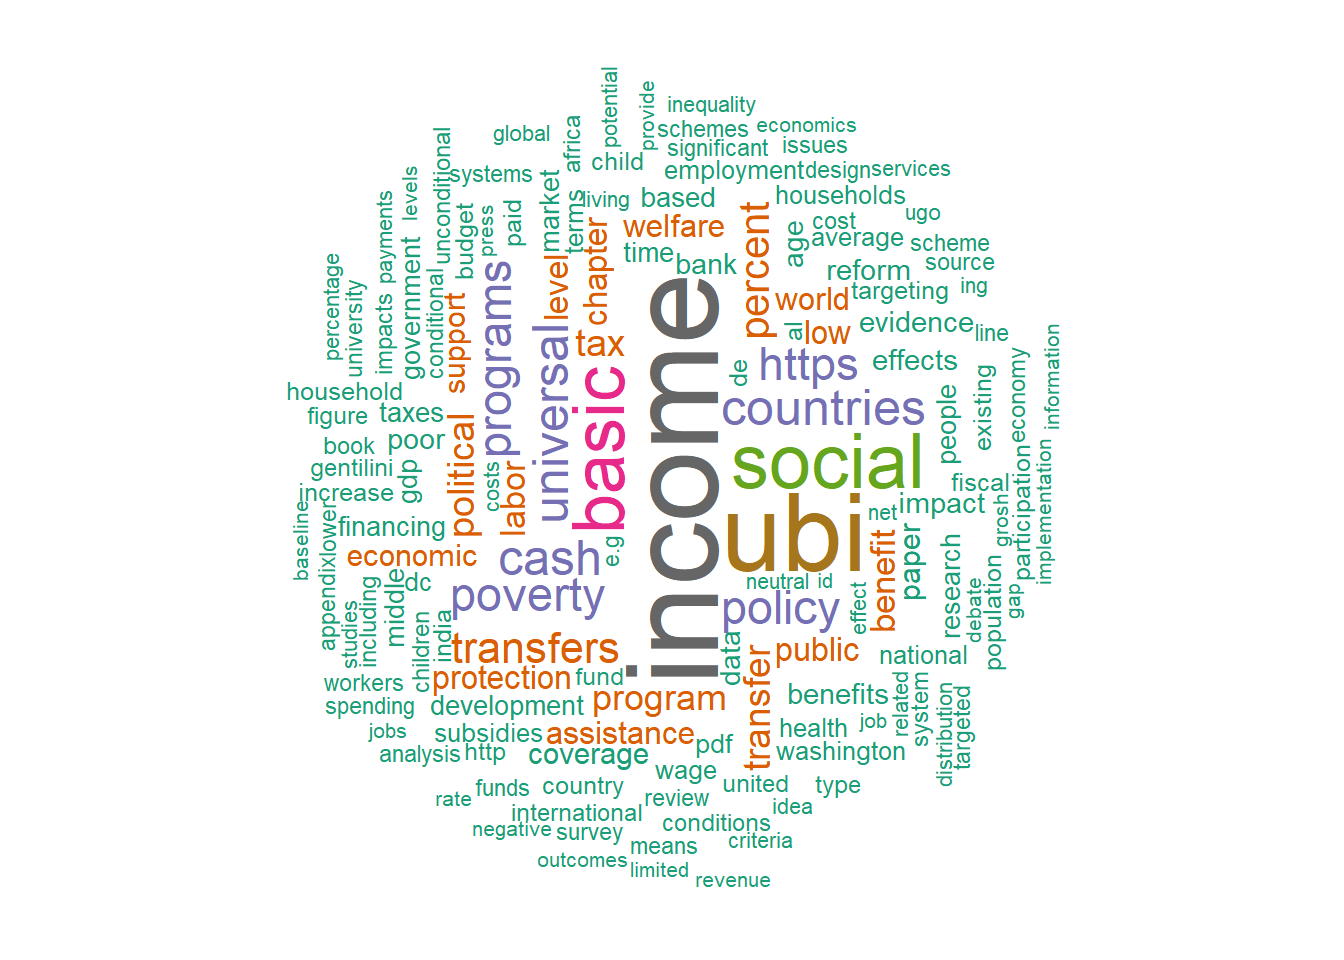
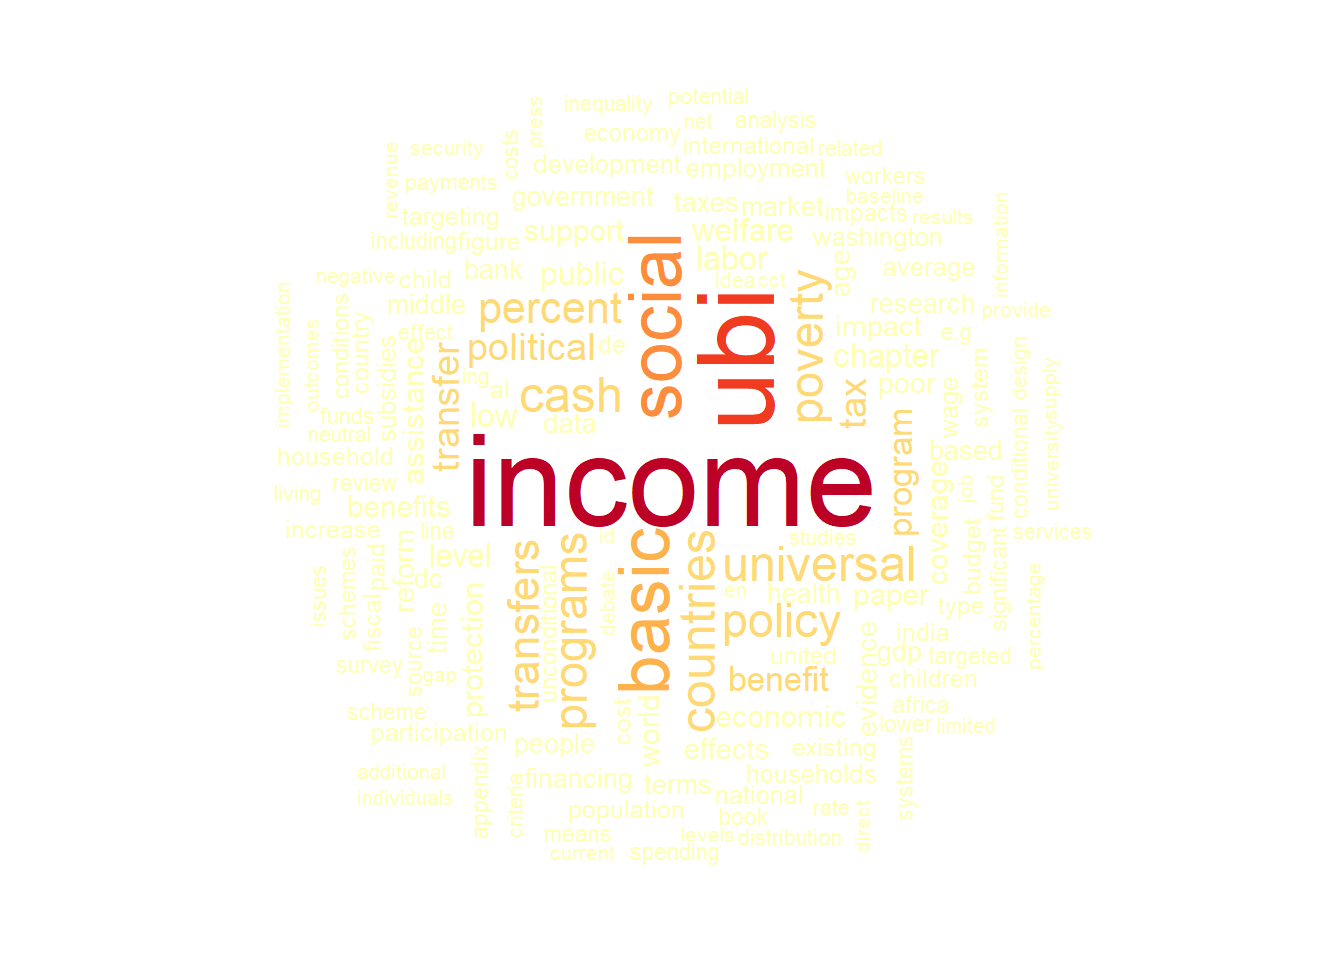
updated post pdf

Changed region(s): [[0.1875, 0.0625, 0.8125, 0.9375]]

diff --git a/blog/pdf-to-text/index.html b/blog/pdf-to-text/index.html
@@ -1138,7 +1138,7 @@ div.main .content .markdown pre, div.main .content .markdown pre code {
                         
                     
                     
-                    <div class="reading-time middot">3 minute read</div>
+                    <div class="reading-time middot">5 minute read</div>
                     
                     
                       <div class="tags">
@@ -1194,13 +1194,8 @@ meu_report &lt;- tibble(
   ungroup() %&gt;% 
   select(page, line, text)
 
-#el guardo com a csv
-write_csv(meu_report, &quot;meu_report.csv&quot;)
-
-
-#el llegeixo
-library(tidyverse)
-meu_report &lt;- read_csv(&quot;meu_report.csv&quot;)</code></pre>
+#les 25 primeres pagines son palla introductoria, presentacions, index, etc. Les suprimeixo
+meu_report &lt;- meu_report %&gt;% filter(page %in% (26:337))</code></pre>
 <p>Un cop llegit puc fer un recompte de les paraules més mencionades</p>
 <pre class="r"><code>report_net &lt;- meu_report %&gt;%
   unnest_tokens(word, text)
@@ -1208,36 +1203,103 @@ meu_report &lt;- read_csv(&quot;meu_report.csv&quot;)</code></pre>
 # eliminar stop words
 data(stop_words)
 
+#afegeixo algunes paraules més que veig que no m&#39;interessen als stopwords (noms dels autors de l&#39;informe i altres)
+library(tm)
+messtopwords &lt;- tibble(word =c(as.character(1:10),&quot;www.palgrave.com&quot;,&quot;palgrave&quot;,&quot;http&quot;,&quot;https&quot;, &quot;documents.worldbank.org&quot;, &quot;bibliography&quot;, &quot;pdf&quot;, &quot;ugo&quot;, &quot;gentilini&quot;, &quot;margaret&quot;, &quot;grosh&quot;, &quot;jamele&quot;, &quot;rigolini&quot;, &quot;ruslan&quot;, &quot;yemtsov&quot;, &quot;doi.org&quot;, &quot;0.0&quot;, &quot;0.7&quot;, &quot;bit.ly&quot;), lexicon=&quot;SMART&quot;)
+
+#uneixo dues taules de stopwords
+meus_stop_words &lt;- bind_rows(stop_words, messtopwords)
+                                    
 report_net &lt;- report_net %&gt;%
-  anti_join(stop_words)
+  anti_join(meus_stop_words)
 
 recompte_paraules &lt;- report_net %&gt;%
   count(word, sort = TRUE) %&gt;%
   filter(!str_detect(word, &quot;[0-9]&quot;)) # remove numbers
 
 recompte_paraules</code></pre>
-<pre><code>## # A tibble: 10,479 x 2
+<pre><code>## # A tibble: 10,109 x 2
 ##    word          n
 ##    &lt;chr&gt;     &lt;int&gt;
-##  1 income     1718
-##  2 ubi        1422
-##  3 social      920
-##  4 basic       857
-##  5 universal   522
-##  6 countries   519
-##  7 cash        507
-##  8 policy      479
-##  9 poverty     479
-## 10 programs    474
-## # ... with 10,469 more rows</code></pre>
+##  1 income     1661
+##  2 ubi        1345
+##  3 social      849
+##  4 basic       815
+##  5 countries   507
+##  6 universal   494
+##  7 cash        493
+##  8 programs    455
+##  9 policy      453
+## 10 poverty     453
+## # ... with 10,099 more rows</code></pre>
 <p>Els Països que apareixen més mencionats en aquest informe son: India (140), Brasil (66), Regne Unit (57), Indonesia (51), Russia (44), Chile (42), Mozambique i Finlandia (38).</p>
 <p>Puc fer un núvol de paraules per representar les paraules més freqüents</p>
 <pre class="r"><code>library(wordcloud)
 wordcloud(words = recompte_paraules$word, freq = recompte_paraules$n, min.freq = 1,
           max.words=150, random.order=FALSE, rot.per=0.35, 
-          colors=brewer.pal(8, &quot;Dark2&quot;))</code></pre>
+          colors=brewer.pal(6, &quot;YlOrRd&quot;))</code></pre>
 <p><img src="/blog/2020-03-29-pdf-to-text_files/figure-html/unnamed-chunk-3-1.png" width="672" /></p>
-<p>Finalment, per veure en quines pàgines del informe es mencionen les paraules que m’interessa podria generar una representació visual del document</p>
+<p>Estaria bé també veure si apareixen alguns conceptes que m’interessen com per exemple: “Intel·ligència Artificial”, “Gig-economy”, “zero-hour contracts”, o “auto-ocupació”,… i sobretot veure amb quins altres conceptes estan correlacionats.</p>
+<p>La funció <em>pairwise_cor()</em> del paquet <em>widyr</em> ens permet trobar les principals correlacions de paraules en base a si apareixen sovint en la mateixa secció del document.</p>
+<pre class="r"><code>library(widyr)
+#primer extraiem les paraules de cada capitol
+unnested &lt;- meu_report %&gt;%
+        unnest_tokens(word, text) %&gt;%
+        filter(!word %in% meus_stop_words$word)
+
+#després usem la funció pairwise_cor per obtenir correlació
+word_cor &lt;- unnested %&gt;%
+   group_by(word) %&gt;%
+   filter(n() &gt;= 15) %&gt;%
+   pairwise_cor(word, page)</code></pre>
+<p>Amb quines paraules està més correlacionada, per exemple, la paraula “economy”</p>
+<pre class="r"><code>word_cor %&gt;%
+        arrange(desc(correlation)) %&gt;% filter(item1 == &quot;economy&quot;)</code></pre>
+<pre><code>## # A tibble: 1,011 x 3
+##    item1   item2        correlation
+##    &lt;chr&gt;   &lt;chr&gt;              &lt;dbl&gt;
+##  1 economy political          0.554
+##  2 economy policy             0.321
+##  3 economy research           0.301
+##  4 economy politics           0.297
+##  5 economy constituency       0.270
+##  6 economy radical            0.264
+##  7 economy support            0.253
+##  8 economy history            0.250
+##  9 economy uk                 0.248
+## 10 economy debate             0.244
+## # ... with 1,001 more rows</code></pre>
+<p>I la paraula “employment”?</p>
+<pre class="r"><code>word_cor %&gt;%
+        arrange(desc(correlation)) %&gt;% filter(item1 == &quot;employment&quot;)</code></pre>
+<pre><code>## # A tibble: 1,011 x 3
+##    item1      item2         correlation
+##    &lt;chr&gt;      &lt;chr&gt;               &lt;dbl&gt;
+##  1 employment labor               0.467
+##  2 employment wages               0.362
+##  3 employment workers             0.344
+##  4 employment job                 0.336
+##  5 employment jobs                0.333
+##  6 employment market              0.297
+##  7 employment wage                0.291
+##  8 employment force               0.291
+##  9 employment opportunities       0.259
+## 10 employment bastagli            0.238
+## # ... with 1,001 more rows</code></pre>
+<p>Podem representar totes aquestes relacions (vincles entre les paraules més correlacionades)</p>
+<pre class="r"><code>library(igraph)
+library(ggraph)
+word_cor %&gt;%
+  filter(!is.na(correlation),
+         correlation &gt; .65) %&gt;%
+  graph_from_data_frame() %&gt;%
+  ggraph(layout = &quot;fr&quot;) +
+  geom_edge_link(aes(edge_alpha = correlation), show.legend = FALSE) +
+  geom_node_point(color = &quot;#EE8C00&quot;, size = 2) +
+  geom_node_text(aes(label = name), repel = TRUE) +
+  theme_void()</code></pre>
+<p><img src="/blog/2020-03-29-pdf-to-text_files/figure-html/unnamed-chunk-7-1.png" width="672" /></p>
+<p>Finalment, per veure en quines pàgines de l’informe es mencionen paraules que m’interessen podria generar una representació visual del document.</p>
 <pre class="r"><code>pagines &lt;- 
   meu_report %&gt;% 
   # pagines sense apenes text
@@ -1248,7 +1310,7 @@ wordcloud(words = recompte_paraules$word, freq = recompte_paraules$n, min.freq =
   ) %&gt;% 
   # Pre-processament amb ggpage
   ggpage_build(
-    ncol = 30, 
+    ncol = 20, 
     bycol = FALSE, 
     page.col = &quot;page&quot;, 
     wtl = FALSE, 
@@ -1258,20 +1320,24 @@ wordcloud(words = recompte_paraules$word, freq = recompte_paraules$n, min.freq =
   mutate(
     color = case_when(
       str_detect(word, &quot;benefit|benefits&quot;) ~ &quot;beneficis&quot;,
-      str_detect(word, &quot;impact|effects|evidence&quot;)     ~ &quot;evidència&quot;,
+      str_detect(word, &quot;impact|effects|evidence&quot;) ~ &quot;evidència&quot;,
+      str_detect(word, &quot;gig|gig-economy&quot;) ~ &quot;gig-economy&quot;,
+      str_detect(word, &quot;zero-hour|zero-hour contract|zero hour contracts|zero-hour contracts&quot;) ~ &quot;zero-hour contracts&quot;,
+      str_detect(word, &quot;artificial|AI&quot;)  ~ &quot;AI&quot;,    
       TRUE ~ &quot;normal&quot;
     ),
-    color = factor(color, c(
-      &quot;beneficis&quot;, &quot;evidència&quot;, &quot;normal&quot;
-    ))
+    color = factor(color, c(&quot;beneficis&quot;, &quot;evidència&quot;, &quot;gig-economy&quot;, &quot;zero-hour contracts&quot;, &quot;AI&quot;, &quot;normal&quot;))
   )
 
 #fixar paleta de colors de ggthemes::pal_calc()
 colors &lt;- rep(&quot;&quot;, length(levels(pagines$color)))
 names(colors) &lt;- levels(pagines$color)
-colors[&quot;beneficis&quot;]    &lt;- &quot;#FF4023&quot;
-colors[&quot;evidència&quot;]   &lt;- &quot;#EE8C00&quot;
-colors[&quot;normal&quot;]   &lt;- &quot;#d0d0d0&quot;
+colors[&quot;beneficis&quot;] &lt;- &quot;#FF4023&quot;
+colors[&quot;evidència&quot;] &lt;- &quot;#EE8C00&quot;
+colors[&quot;gig-economy&quot;] &lt;- &quot;#FE4722&quot;
+colors[&quot;zero-hour contracts&quot;] &lt;- &quot;#F6A414&quot;
+colors[&quot;AI&quot;] &lt;- &quot;#CC5102&quot;
+colors[&quot;normal&quot;] &lt;- &quot;#d0d0d0&quot;
 
 
 #finalment uso ggpage_plot() de ggpage per crear una visualitzacio de les pagines del report
@@ -1283,8 +1349,9 @@ ggpage_plot(pagines) +
   ) +
   labs(fill = NULL, caption = &quot;basat in @grrrck&quot;) +
   guides(fill = guide_legend(nrow = 1)) +
-  theme(legend.position = &quot;bottom&quot;)</code></pre>
-<p><img src="/blog/2020-03-29-pdf-to-text_files/figure-html/unnamed-chunk-4-1.png" width="672" /></p>
+  theme(legend.position = &quot;top&quot;)</code></pre>
+<p><img src="/blog/2020-03-29-pdf-to-text_files/figure-html/unnamed-chunk-8-1.png" width="672" /></p>
+<p>No es menciona a l’informe ni la gig-economy, ni els contractes zero hores, i només molt esporàdicament la Intel·ligència Artificial…</p>
 
 
             </div>
